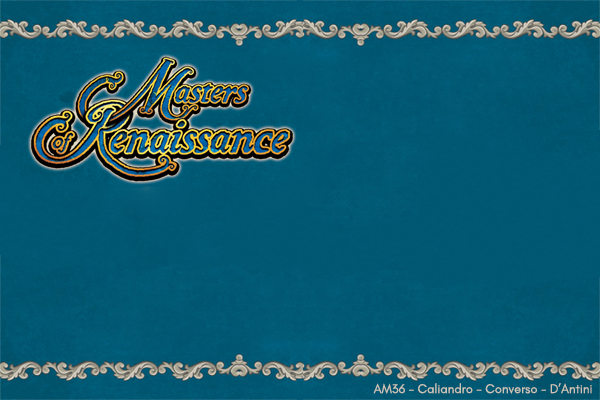
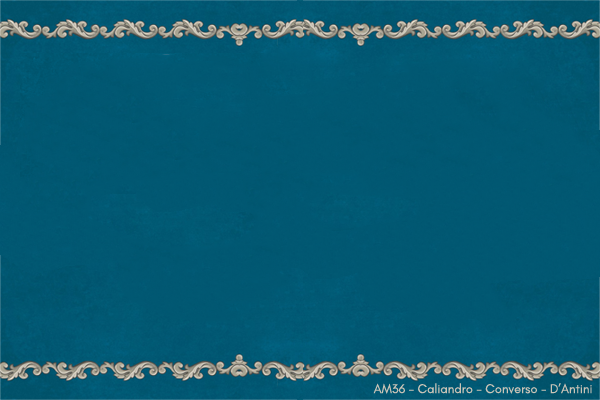
fix(CLI): fix error when commands are written without arguments
- style(Server): add string block syntax in leader phase
- style(GUI): remove logo from launcher background

Changed region(s): [[0.03, 0.12, 0.51, 0.48], [0.81, 0.96, 0.99, 0.99], [0.63, 0.96, 0.78, 0.99]]

diff --git a/client/src/main/java/it/polimi/ingsw/client/CLI/CLIView.java b/client/src/main/java/it/polimi/ingsw/client/CLI/CLIView.java
@@ -231,14 +231,18 @@ public class CLIView extends View {
 
     @Override
     public void joinGame(String[] commandSlice) {
-        if (commandSlice[1].trim().isEmpty()) {
+        String lobbyName;
+        try {
+            lobbyName = commandSlice[1].trim();
+        } catch (ArrayIndexOutOfBoundsException e) {
             System.err.println("Wrong syntax: use the format \"JOINGAME: <game name>\".");
             return;
-        } else if (getController().getModel().isGameSelected()) {
+        }
+        if (getController().getModel().isGameSelected()) {
             System.err.println("You have already chosen the game.");
             return;
         }
-        getController().sendMessage(new JoinGame(commandSlice[1]));
+        getController().sendMessage(new JoinGame(lobbyName));
     }
 
     @Override
@@ -285,9 +289,15 @@ public class CLIView extends View {
 
     @Override
     public void showHandler(String[] commandSlice){
-        String target = commandSlice[1].toLowerCase();
+        String target;
+        try {
+            target = commandSlice[1].trim();
+        } catch (ArrayIndexOutOfBoundsException e) {
+            System.err.println("Wrong syntax: use the format \"SHOW: <arg1>, <arg2>, ...\".");
+            return;
+        }
         String[] boardCmd = target.split("\\s*,\\s*");
-        switch (boardCmd[0]) {
+        switch (boardCmd[0].toLowerCase()) {
             case "board": {
                 if (boardCmd.length==1) {
                     show("board");
@@ -333,6 +343,13 @@ public class CLIView extends View {
      */
     @Override
     public void discardRes(String[] commandSlice) {
+        String resource;
+        try {
+            resource = commandSlice[1];
+        } catch (ArrayIndexOutOfBoundsException e) {
+            System.err.println("Wrong syntax: use the format \"DISCARDRES: <resource name>\".");
+            return;
+        }
         if (Utility.mapResource.get(commandSlice[1]) != null){
             if (Utility.isStorable(Utility.mapResource.get(commandSlice[1]))){
                 getController().sendMessage(new DiscardRes(Utility.mapResource.get(commandSlice[1])));
@@ -353,14 +370,18 @@ public class CLIView extends View {
      */
     @Override
     public void setNick(String[] commandSlice){
-        if (commandSlice[1].trim().isEmpty()) {
+        String nickname;
+        try {
+            nickname = commandSlice[1].trim();
+        } catch (ArrayIndexOutOfBoundsException e) {
             System.err.println("Wrong syntax: use the format \"SETNICK: <nickname>\".");
             return;
-        } else if (getController().getModel().getPlayerUsername() != null) {
+        }
+        if (getController().getModel().getPlayerUsername() != null) {
             System.err.println("You have already chosen your nickname.");
             return;
         }
-        getController().sendMessage(new SetNickname(commandSlice[1]));
+        getController().sendMessage(new SetNickname(nickname));
     }
 
     /**
@@ -371,7 +392,7 @@ public class CLIView extends View {
     public void setGame(String[] commandSlice){
         try {
             getController().sendMessage(new SetGame(Integer.parseInt(commandSlice[1])));
-        } catch (NumberFormatException e) {
+        } catch (ArrayIndexOutOfBoundsException | NumberFormatException e) {
             System.err.println("You must insert a number.");
         }
     }
@@ -382,11 +403,14 @@ public class CLIView extends View {
      */
     @Override
     public void choose(String[] commandSlice){
-        if (commandSlice[1].isEmpty()) {
-            System.err.println("You must insert a turn phase.");
+        String turnPhase;
+        try {
+            turnPhase = commandSlice[1];
+        } catch (ArrayIndexOutOfBoundsException e) {
+            System.err.println("Wrong syntax: use the format \"CHOOSE: <turnphasename>\".");
             return;
         }
-        getController().sendMessage(new ChooseTurnPhase(commandSlice[1].trim().toLowerCase()));
+        getController().sendMessage(new ChooseTurnPhase(turnPhase.trim().toLowerCase()));
     }
 
     /**
@@ -397,7 +421,14 @@ public class CLIView extends View {
      */
     @Override
     public void activateProduction(String[] commandSlice) {
-        String[] arguments = commandSlice[1].split("\\s*,\\s*");
+        String argument;
+        try {
+            argument = commandSlice[1];
+        } catch (ArrayIndexOutOfBoundsException e) {
+            System.err.println("Wrong syntax: use the format \"ACTIVATEPRODUCTION: <id>, <arg1>, ...\".");
+            return;
+        }
+        String[] arguments = argument.split("\\s*,\\s*");
         String[] elements;
         ArrayList<Integer> cost = new ArrayList<>();
         int ID = Integer.parseInt(arguments[0]);
@@ -435,7 +466,14 @@ public class CLIView extends View {
      * @param commandSlice command by the player
      */
     public void buyDevCard(String[] commandSlice){
-        String[] arguments = commandSlice[1].split("\\s*,\\s*");
+        String arg;
+        try {
+            arg = commandSlice[1];
+        } catch (ArrayIndexOutOfBoundsException e) {
+            System.err.println("Wrong syntax: use the format \"BUYDEVCARD: <arg1>, <arg2>, ...\".");
+            return;
+        }
+        String[] arguments = arg.split("\\s*,\\s*");
         int level, space;
         String color;
         ArrayList<Integer> stores = new ArrayList<>();
@@ -459,8 +497,14 @@ public class CLIView extends View {
      */
     @Override
     public void useMarket(String[] commandSlice){
+        String argument;
+        try {
+            argument = commandSlice[1];
+        } catch (ArrayIndexOutOfBoundsException e) {
+            System.err.println("Wrong syntax: use the format \"USEMARKET: <rowOrColumn>, <number>\".");
+        }
         String[] args = commandSlice[1].split("\\s*,\\s*");
-        if (args[0].toLowerCase().matches("[rc]")) {
+        if (args[0].toLowerCase().matches("[rc]") && args.length == 2) {
             try {
                 getController().sendMessage(new UseMarket(args[0].charAt(0), Integer.parseInt(args[1])));
             } catch (NumberFormatException e) {
@@ -477,7 +521,7 @@ public class CLIView extends View {
     public void chooseWhite(String[] commandSlice) {
         try {
             getController().sendMessage(new ChooseWhiteMarble(Integer.parseInt(commandSlice[1].trim())));
-        } catch (NumberFormatException e) {
+        } catch (ArrayIndexOutOfBoundsException | NumberFormatException e) {
             System.err.println("You must insert a leader position (1 or 2).");
         }
     }
@@ -528,7 +572,7 @@ public class CLIView extends View {
         try {
             pos = Integer.parseInt(commandSlice[1]);
             getController().sendMessage(new DiscardLeader(pos));
-        } catch (NumberFormatException e) {
+        } catch (ArrayIndexOutOfBoundsException | NumberFormatException e) {
             System.err.println("You must insert a number.");
         }
     }
@@ -543,7 +587,7 @@ public class CLIView extends View {
         try{
             depot=Integer.parseInt(commandSlice[1]);
             getController().sendMessage(new TakeRes(depot));
-        }catch(NumberFormatException e){
+        }catch(ArrayIndexOutOfBoundsException | NumberFormatException e){
             System.err.println("you must insert a number");
         }
     }
@@ -554,11 +598,14 @@ public class CLIView extends View {
      */
     @Override
     public void getRes(String[] commandSlice) {
-        if (commandSlice[1].trim().isEmpty()) {
-            System.err.println("Missing parameter: you must insert a resource name.");
+        String resource;
+        try {
+            resource = commandSlice[1];
+        } catch (ArrayIndexOutOfBoundsException e) {
+            System.err.println("Wrong syntax: use the format \"GETRES: <resource>\".");
             return;
         }
-        Resource res = Utility.mapResource.get(commandSlice[1].toLowerCase());
+        Resource res = Utility.mapResource.get(resource.toLowerCase());
         if (res == null)
             System.err.println("Wrong parameter: you must insert a resource name.");
         else getController().sendMessage(new GetResource(res));

diff --git a/server/src/main/java/it/polimi/ingsw/server/model/UseLeaderPhase.java b/server/src/main/java/it/polimi/ingsw/server/model/UseLeaderPhase.java
@@ -20,10 +20,10 @@ public class UseLeaderPhase extends TurnPhase {
 
     @Override
     public String getPhaseInfo() {
-        return "In this turn phase you can deploy or discard leaders that you have in your hand.\n" +
-                "Deploy leader: if you meet the requirements of a leader, you can deploy it on your board;\n" +
-                "Discard leader: if you decide that you don't need a leader, you can discard the leader card. " +
-                "This operation gives you a Faith point.";
+        return """
+                In this turn phase you can deploy or discard leaders that you have in your hand.
+                Deploy leader: if you meet the requirements of a leader, you can deploy it on your board;
+                Discard leader: if you decide that you don't need a leader, you can discard the leader card. This operation gives you a Faith point.""";
     }
 
     @Override
